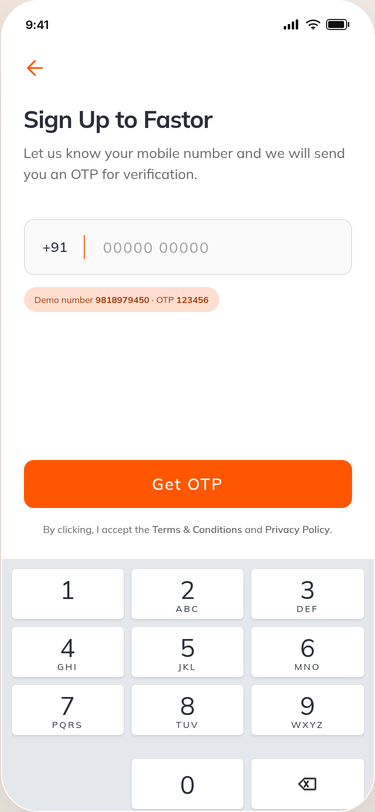
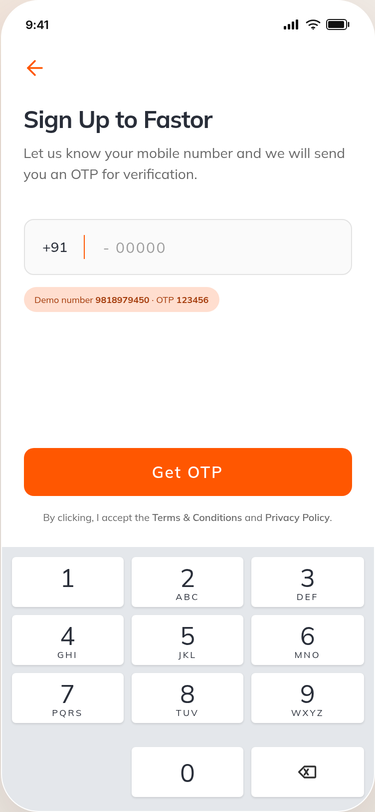
fix: align phone input and pin detail action to bottom

Changed region(s): [[0.0, 0.5542, 0.9973, 1.0], [0.2933, 0.2771, 0.5573, 0.3079]]

diff --git a/reactjs/src/styles.css b/reactjs/src/styles.css
@@ -1173,8 +1173,10 @@ input:focus-visible {
 /* --------------------------------- Detail -------------------------------- */
 
 .detail-screen {
+  display: flex;
+  min-height: calc(100% - 38px);
+  flex-direction: column;
   padding: 0;
-  min-height: 100%;
 }
 
 .detail-hero-wrap {
@@ -1817,7 +1819,7 @@ input:focus-visible {
 .keypad {
   gap: 8px;
   margin: 22px -22px 0;
-  padding: 10px 10px 2px;
+  padding: 10px 10px 14px;
   border-radius: 0;
   background: #e4e7eb;
 }
@@ -2204,6 +2206,7 @@ input:focus-visible {
 }
 
 .detail-content {
+  flex: 1;
   padding: 18px 20px 20px;
 }
 
@@ -2318,6 +2321,7 @@ input:focus-visible {
 
 .detail-footer {
   position: static;
+  margin-top: auto;
   padding: 14px 20px calc(18px + env(safe-area-inset-bottom));
   background: #fff;
 }
@@ -2375,6 +2379,10 @@ input:focus-visible {
 
   .detail-hero-wrap {
     height: 287px;
+  }
+
+  .detail-screen {
+    min-height: 100dvh;
   }
 
   .detail-footer {

diff --git a/reactjs/src/pages/LoginPage.jsx b/reactjs/src/pages/LoginPage.jsx
@@ -7,6 +7,10 @@ import { useAuth } from '../lib/auth.jsx';
 
 const DEMO_PHONE = '9818979450';
 
+function formatPhoneValue(value) {
+  return value.length > 5 ? `${value.slice(0, 5)} ${value.slice(5)}` : value;
+}
+
 export function LoginPage() {
   const navigate = useNavigate();
   const { isAuthenticated } = useAuth();
@@ -86,10 +90,9 @@ export function LoginPage() {
             inputMode="numeric"
             autoComplete="tel-national"
             aria-label="Mobile number"
-            placeholder="00000 00000"
-            value={phone}
+            placeholder="- 00000"
+            value={formatPhoneValue(phone)}
             onChange={handlePhoneChange}
-            maxLength={10}
           />
         </div>
 
